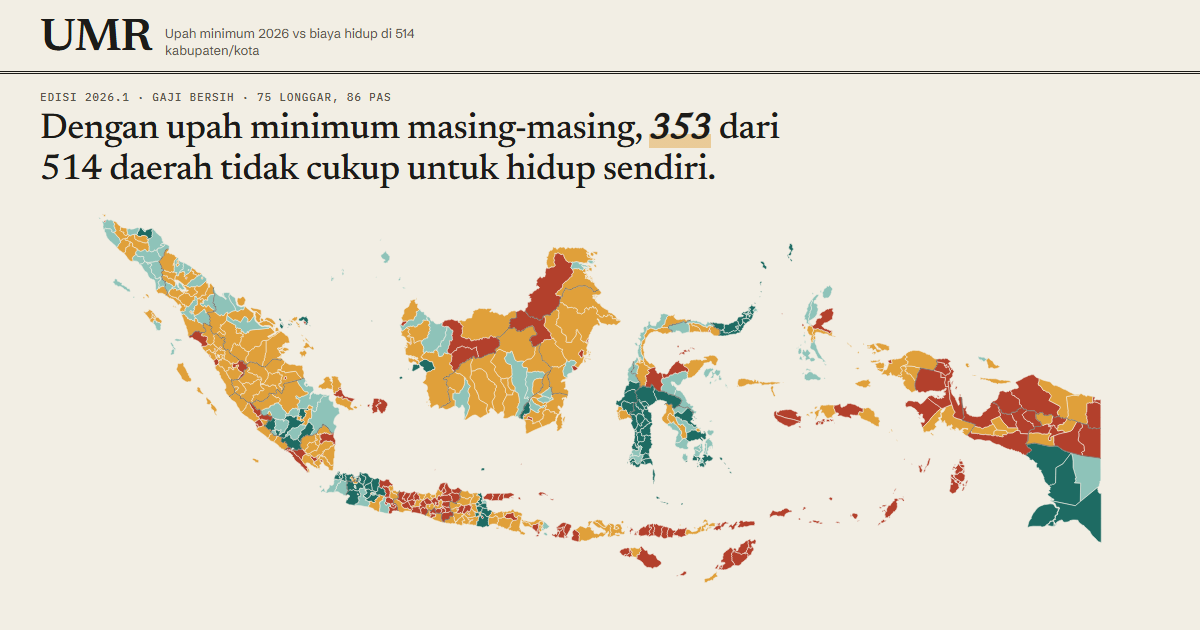
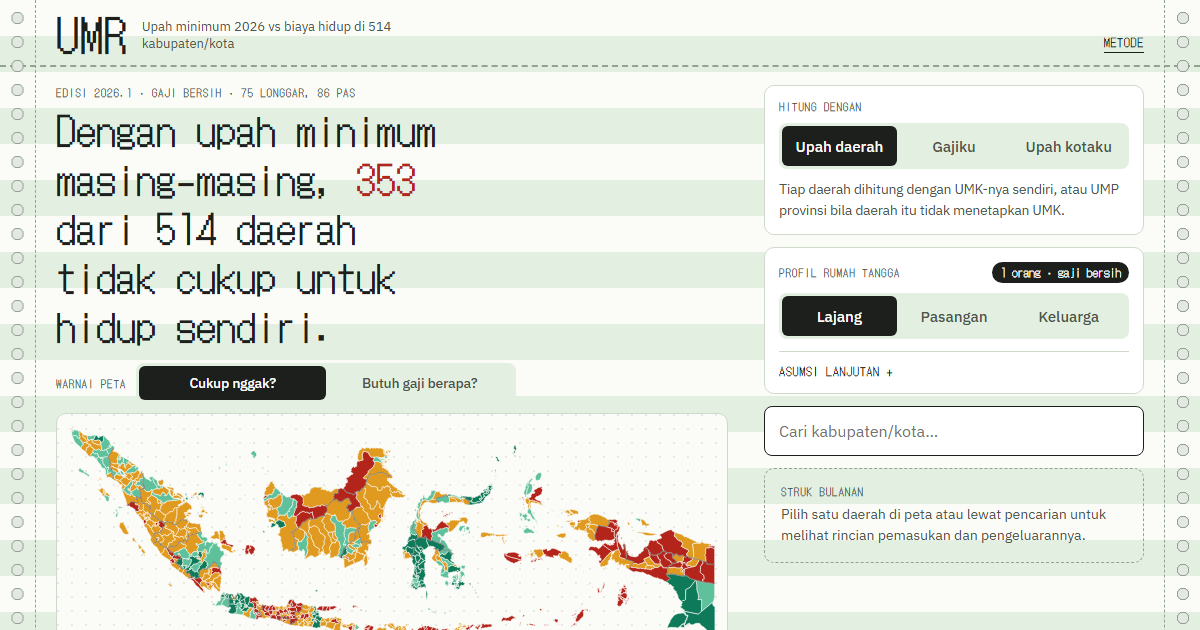
Tampilan baru: slip upah di kertas komputer

diff --git a/src/gaya.css b/src/gaya.css
@@ -1,25 +1,26 @@
-/* UMR — tampilan "halaman koran": kertas, tinta, satu set warna data. */
+/* UMR — slip upah di kertas komputer: kertas bergaris hijau, lubang traktor, huruf printer dot-matrix. */
 
 :root {
-  --kertas: #f2eee4;
-  --kertas-2: #e9e3d5;
-  --kertas-struk: #fffdf7;
-  --tinta: #1c1b18;
-  --tinta-2: #5a554b;
-  --tinta-3: #8a8476;
-  --garis: #d3cbba;
-  --garis-kuat: #a59d8b;
+  --kertas: #fbfcf8;
+  --kertas-2: #e3efe0;
+  --kertas-struk: #ffffff;
+  --tinta: #1d1f1c;
+  --tinta-2: #4d544c;
+  --tinta-3: #6f786d;
+  --garis: #cfdacb;
+  --garis-kuat: #94a291;
 
-  /* Warna pita: hijau-teal dalam -> teal muda -> oker -> bata.
-     Beda terang-gelapnya cukup jauh supaya tetap terbaca bagi buta warna. */
-  --longgar: #1e6b63;
-  --pas: #8ec3b9;
-  --mepet: #e0a03a;
-  --kurang: #b3402c;
+  /* Warna pita: hijau buku besar -> hijau muda -> kuning stabilo -> merah pita printer.
+     Divalidasi buta warna di atas --kertas (ΔE CVD terburuk 13). */
+  --longgar: #0f7a5a;
+  --pas: #5fc09c;
+  --mepet: #e09a1f;
+  --kurang: #b3241b;
+  --lubang: #e4e8e3;
 
-  --serif: "Newsreader", Georgia, "Times New Roman", serif;
-  --sans: "Schibsted Grotesk", system-ui, -apple-system, "Segoe UI", sans-serif;
-  --mono: "IBM Plex Mono", ui-monospace, "Cascadia Mono", Consolas, monospace;
+  --serif: "DotGothic16", "Courier New", monospace;
+  --sans: "IBM Plex Sans", system-ui, -apple-system, "Segoe UI", sans-serif;
+  --mono: "DotGothic16", "Courier New", monospace;
 
   --tepi: 16px;
   --lengkung: 10px;
@@ -100,15 +101,15 @@ button {
   align-items: end;
   gap: 4px 14px;
   padding: 14px var(--tepi) 12px;
-  border-bottom: 3px double var(--tinta);
+  border-bottom: 2px dashed var(--garis-kuat);
   max-width: 1360px;
   margin: 0 auto;
 }
 
 .merek {
   grid-area: merek;
-  font: 600 40px/0.85 var(--serif);
-  letter-spacing: -0.03em;
+  font: 400 44px/0.85 var(--serif);
+  letter-spacing: 0.02em;
   text-decoration: none;
 }
 
@@ -151,16 +152,16 @@ button {
 
 .judul {
   margin: 0 0 14px;
-  font: 500 27px/1.12 var(--serif);
-  letter-spacing: -0.015em;
+  font: 400 29px/1.22 var(--serif);
+  letter-spacing: 0;
   text-wrap: balance;
   max-width: 24ch;
 }
 
 .judul em {
-  font-style: italic;
-  font-weight: 600;
-  background: linear-gradient(transparent 62%, color-mix(in srgb, var(--mepet) 45%, transparent) 62%);
+  /* angka penting dicetak pita merah, seperti printer dua warna */
+  font-style: normal;
+  color: var(--kurang);
 }
 
 /* ---------------- Peta ---------------- */
@@ -410,7 +411,7 @@ button {
   padding: 14px;
   border: 1px solid var(--garis);
   border-radius: var(--lengkung);
-  background: color-mix(in srgb, var(--kertas-struk) 55%, var(--kertas));
+  background: var(--kertas-struk);
 }
 
 .kartu-kepala {
@@ -1073,7 +1074,7 @@ input[type="range"]::-moz-range-thumb {
 .peringkat {
   margin-top: 28px;
   padding-top: 14px;
-  border-top: 3px double var(--tinta);
+  border-top: 2px dashed var(--garis-kuat);
 }
 
 .peringkat-kepala {
@@ -1231,12 +1232,12 @@ input[type="range"]::-moz-range-thumb {
 /* ---------------- Peta "gaji yang dibutuhkan" ---------------- */
 
 :root {
-  /* Skala berurutan hangat: makin gelap, makin besar gaji yang dibutuhkan. */
-  --skala-0: #f0e2bf;
-  --skala-1: #e2bd78;
-  --skala-2: #cf8f45;
-  --skala-3: #a85b2c;
-  --skala-4: #66311d;
+  /* Skala berurutan biru tinta: makin gelap, makin besar gaji yang dibutuhkan. */
+  --skala-0: #8fb5df;
+  --skala-1: #5f94cd;
+  --skala-2: #3a74b8;
+  --skala-3: #235292;
+  --skala-4: #11345f;
 }
 
 .mode-skala path[data-skala="0"], [data-skala="0"].titik-pita, .pita-batang [data-skala="0"] { fill: var(--skala-0); background: var(--skala-0); }
@@ -1337,7 +1338,7 @@ input[type="range"]::-moz-range-thumb {
 
 .banding-vs {
   align-self: center;
-  font: 500 italic 18px/1 var(--serif);
+  font: 400 18px/1 var(--serif);
   color: var(--tinta-3);
 }
 
@@ -1432,8 +1433,7 @@ input[type="range"]::-moz-range-thumb {
   padding: 30px 26px 26px;
   overflow: hidden;
   background:
-    radial-gradient(circle at 1px 1px, rgb(28 27 24 / 0.08) 1px, transparent 1.2px) 0 0 / 12px 12px,
-    var(--kertas);
+    repeating-linear-gradient(var(--kertas) 0 32px, var(--kertas-2) 32px 64px);
   color: var(--tinta);
   font-family: var(--sans);
   border-top: 10px solid var(--kurang);
@@ -1473,7 +1473,7 @@ input[type="range"]::-moz-range-thumb {
 .story-hasil {
   margin-top: 22px;
   padding: 14px 0;
-  border-top: 3px double var(--tinta);
+  border-top: 2px dashed var(--garis-kuat);
   border-bottom: 1px solid var(--tinta);
 }
 
@@ -1592,5 +1592,43 @@ input[type="range"]::-moz-range-thumb {
 
   .pita-ringkas.butuh .pita-nama {
     font-size: 12.5px;
+  }
+}
+
+/* ---------------- Kertas komputer (continuous form) ---------------- */
+
+body {
+  position: relative;
+  min-height: 100vh;
+  font-synthesis: none;
+  /* pita hijau selang-seling, tiap pita selebar dua baris cetak */
+  background: repeating-linear-gradient(var(--kertas) 0 36px, var(--kertas-2) 36px 72px);
+}
+
+@media (min-width: 760px) {
+  :root {
+    --tepi: 56px;
+  }
+
+  /* strip lubang traktor di kiri-kanan, dipisah garis sobekan */
+  body::before,
+  body::after {
+    content: "";
+    position: absolute;
+    top: 0;
+    bottom: 0;
+    width: 36px;
+    pointer-events: none;
+    background: radial-gradient(circle, var(--lubang) 0 5px, var(--garis-kuat) 5.5px 6px, transparent 6.5px) 50% 6px / 36px 24px repeat-y;
+  }
+
+  body::before {
+    left: 0;
+    border-right: 1px dashed var(--garis-kuat);
+  }
+
+  body::after {
+    right: 0;
+    border-left: 1px dashed var(--garis-kuat);
   }
 }

diff --git a/src/main.ts b/src/main.ts
@@ -1,11 +1,7 @@
-import "@fontsource/newsreader/500.css";
-import "@fontsource/newsreader/600.css";
-import "@fontsource/newsreader/500-italic.css";
-import "@fontsource/schibsted-grotesk/400.css";
-import "@fontsource/schibsted-grotesk/500.css";
-import "@fontsource/schibsted-grotesk/700.css";
-import "@fontsource/ibm-plex-mono/400.css";
-import "@fontsource/ibm-plex-mono/500.css";
+import "@fontsource/dotgothic16/latin-400.css";
+import "@fontsource/ibm-plex-sans/400.css";
+import "@fontsource/ibm-plex-sans/500.css";
+import "@fontsource/ibm-plex-sans/600.css";
 import "./gaya.css";
 
 import type { GeometryCollection, Topology } from "topojson-specification";
@@ -327,7 +323,7 @@ function gambarStruk(): void {
     </div>`;
   $("struk-tutup").onclick = tutupStruk;
   tombolBagikan($<HTMLButtonElement>("struk-story"), () =>
-    bagikanHtml(htmlStory(info), `umr-${h.daerah.id}-story`, { lebar: 360, tinggi: 640, rasio: 3, latar: "#f2eee4" }),
+    bagikanHtml(htmlStory(info), `umr-${h.daerah.id}-story`, { lebar: 360, tinggi: 640, rasio: 3, latar: "#fbfcf8" }),
   );
   tombolBagikan($<HTMLButtonElement>("struk-simpan"), () =>
     bagikanGambar(wadah.querySelector(".struk")!, `struk-${h.daerah.id}`),

diff --git a/src/metode.ts b/src/metode.ts
@@ -1,10 +1,7 @@
-import "@fontsource/newsreader/500.css";
-import "@fontsource/newsreader/600.css";
-import "@fontsource/schibsted-grotesk/400.css";
-import "@fontsource/schibsted-grotesk/500.css";
-import "@fontsource/schibsted-grotesk/700.css";
-import "@fontsource/ibm-plex-mono/400.css";
-import "@fontsource/ibm-plex-mono/500.css";
+import "@fontsource/dotgothic16/latin-400.css";
+import "@fontsource/ibm-plex-sans/400.css";
+import "@fontsource/ibm-plex-sans/500.css";
+import "@fontsource/ibm-plex-sans/600.css";
 import "./gaya.css";
 import "./metode.css";
 

diff --git a/src/metode.css b/src/metode.css
@@ -12,13 +12,13 @@
 
 .lead {
   margin: 0 0 8px;
-  font: 400 19px/1.5 var(--serif);
+  font: 400 18px/1.55 var(--sans);
 }
 
 .artikel section {
   margin-top: 34px;
   padding-top: 14px;
-  border-top: 3px double var(--tinta);
+  border-top: 2px dashed var(--garis-kuat);
 }
 
 .artikel h2 {

diff --git a/src/struk.ts b/src/struk.ts
@@ -209,7 +209,7 @@ export async function bagikanGambar(
   el: HTMLElement,
   nama: string,
   rasio = 2,
-  latar = "#fffdf7",
+  latar = "#ffffff",
 ): Promise<"dibagikan" | "diunduh"> {
   const blob = await toBlob(el, {
     pixelRatio: rasio,
